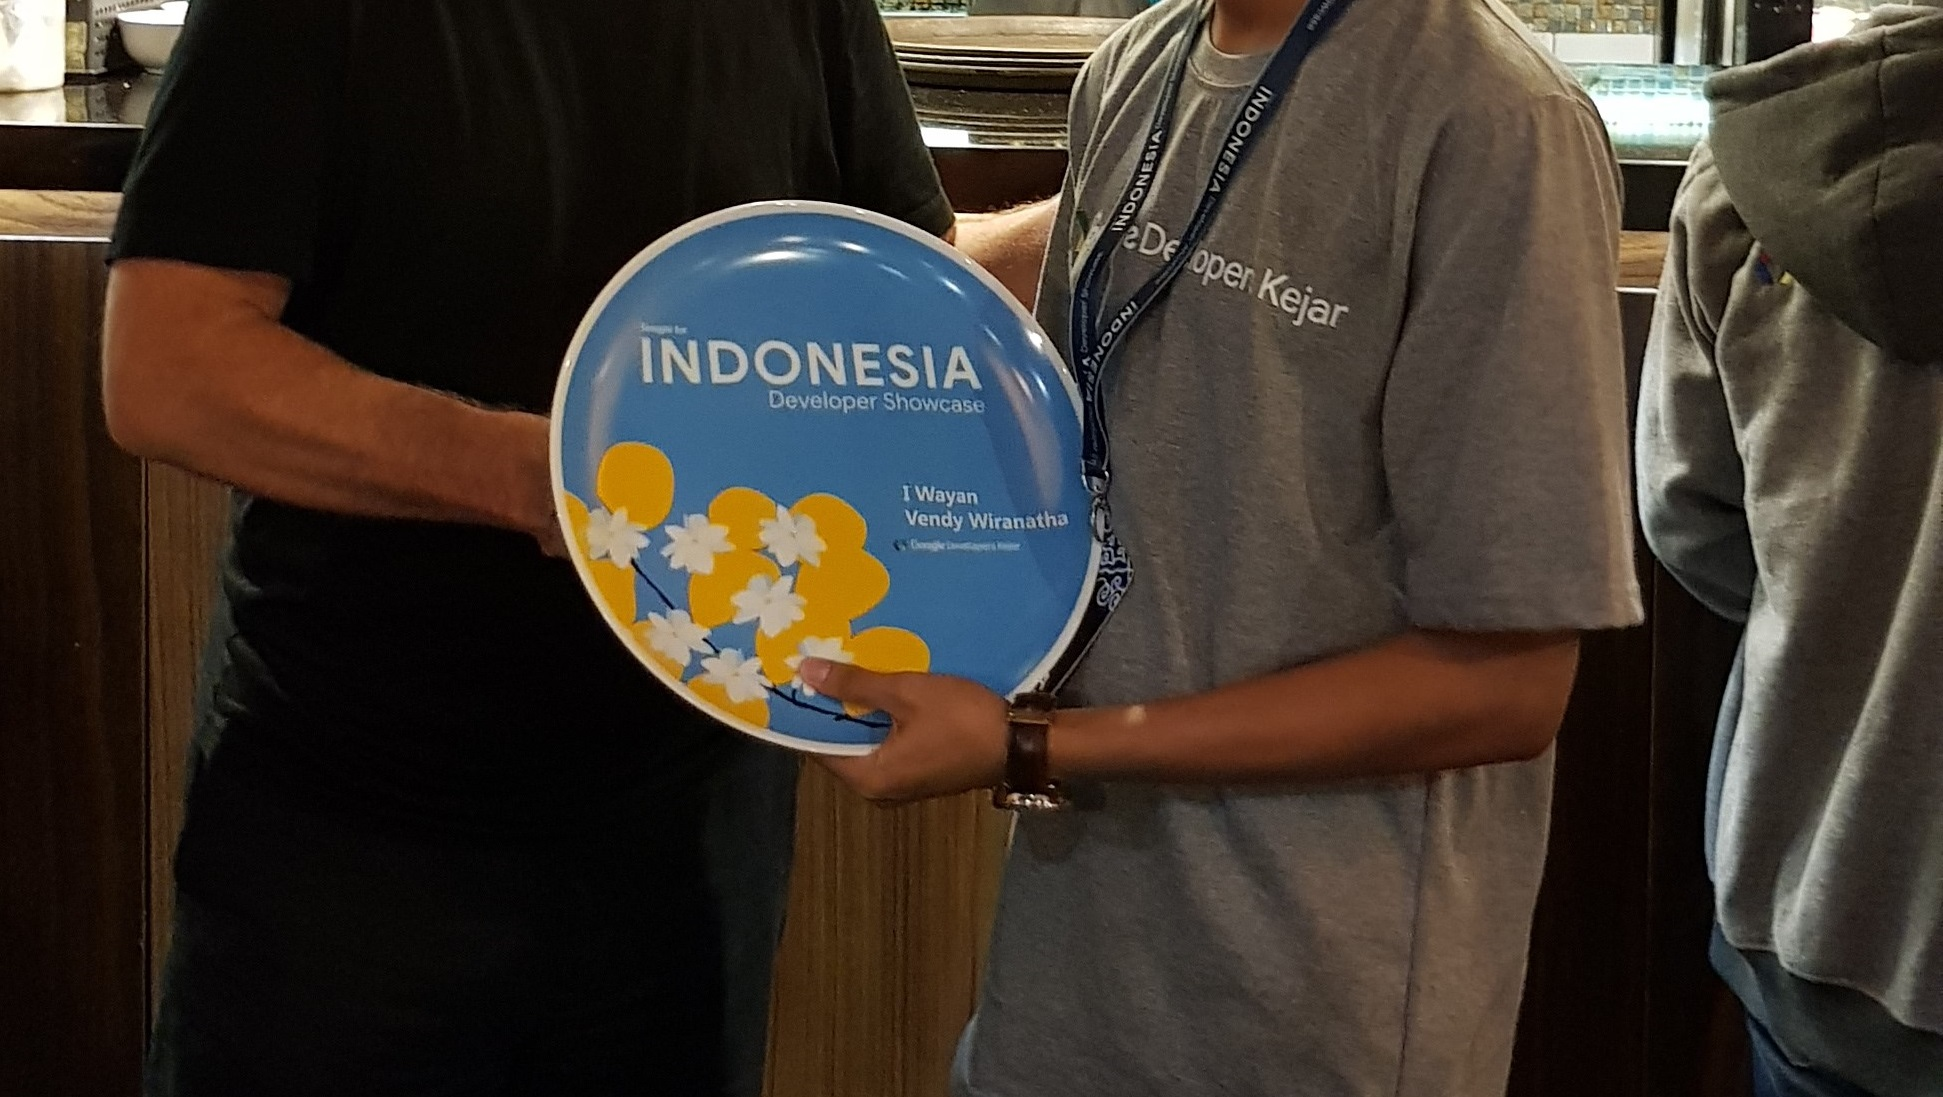
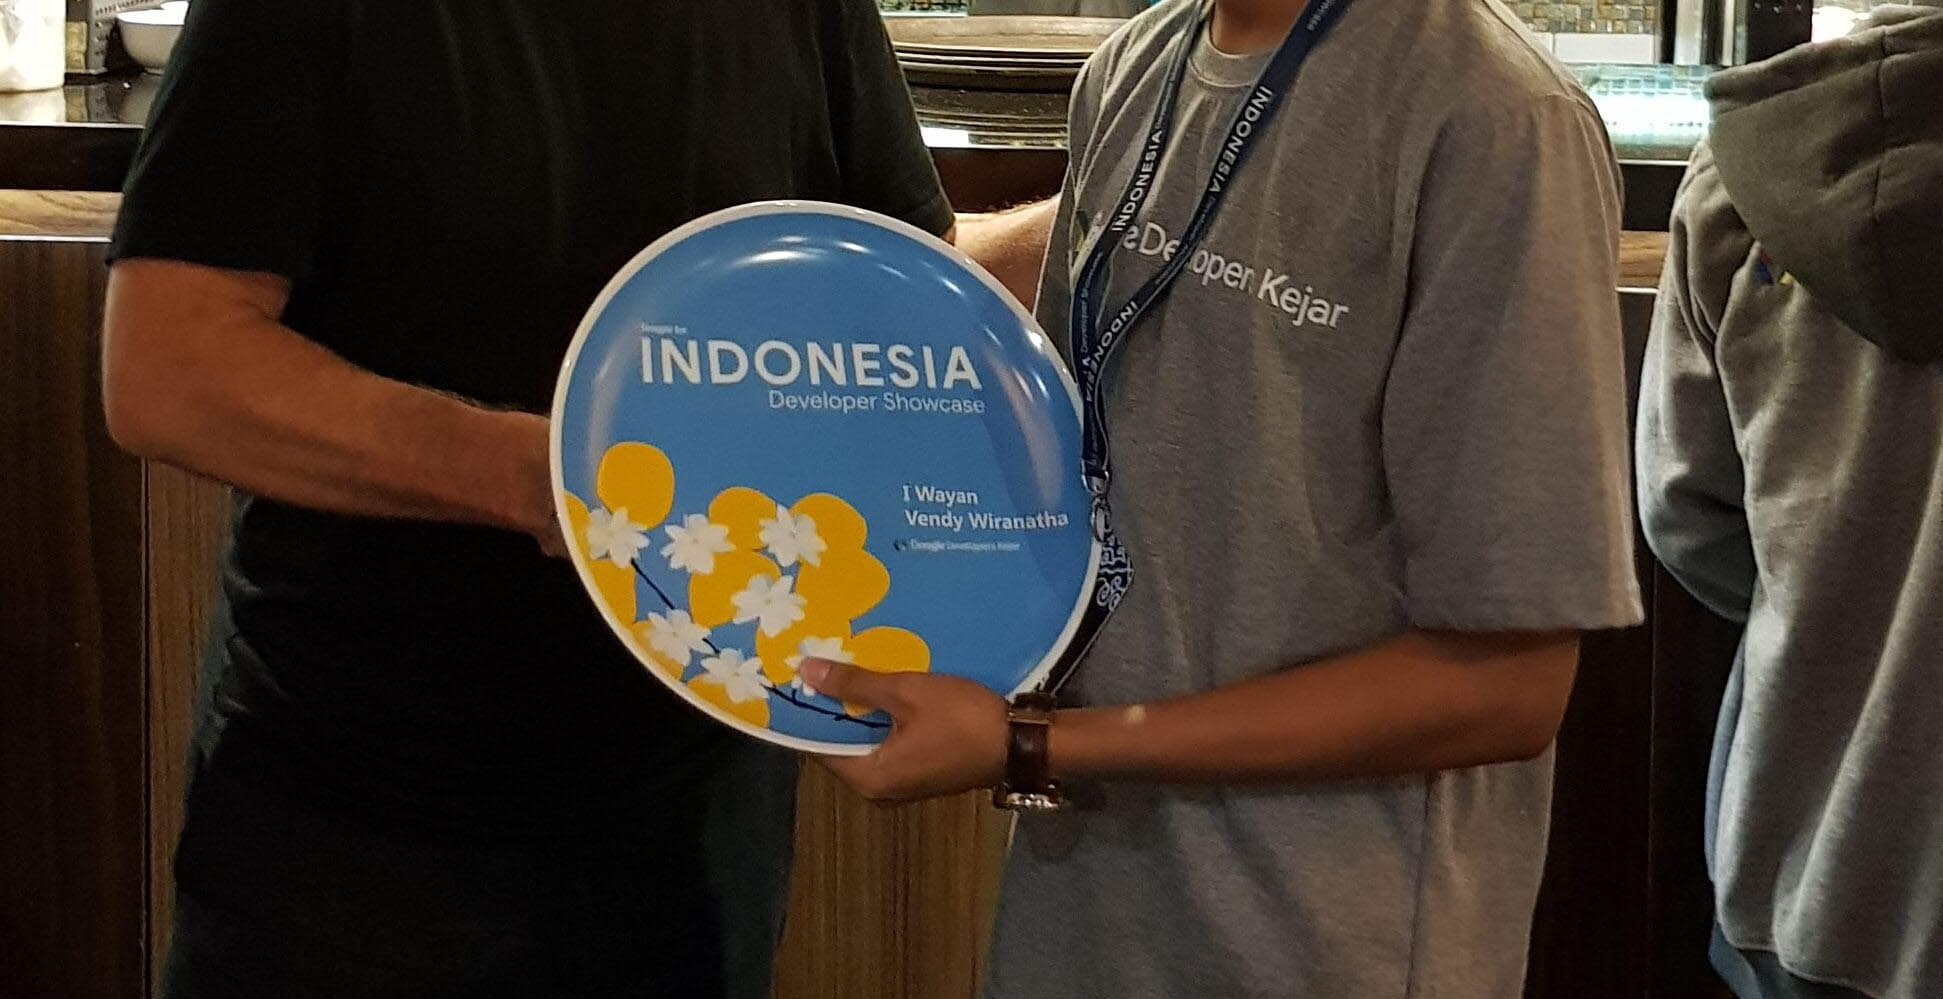
updated image to smaller for performance improvement

diff --git a/src/index.html b/src/index.html
@@ -6,7 +6,7 @@
   <meta name="viewport" content="width=device-width, initial-scale=1.0">
   <meta http-equiv="X-UA-Compatible" content="ie=edge">
   <title>Final Project DevC Jakarta</title>
-
+  <link rel="shortcut icon" type="image/png" href="./assets/images/favicon.png" />
   <link rel='stylesheet' type='text/css'
     href='https://fonts.googleapis.com/css?family=Open+Sans:300italic,400italic,600italic,700italic,800italic,400,300,600,700,800'>
   <link rel="stylesheet" href="https://use.fontawesome.com/releases/v5.7.2/css/all.css"
@@ -20,7 +20,7 @@
     <div class="container">
       <h1 class="logo">
         <a class="scrollto" href="#hero">
-          <span class="logo-icon-wrapper"><img class="logo-icon" src="assets/images/logo-icon.svg" alt="icon"></span>
+          <span class="logo-icon-wrapper"><img class="logo-icon" src="assets/images/devc.png" alt="icon"></span>
           <span class="text"><span class="highlight">DevC</span>Jakarta</span></a>
       </h1>
       <nav class="main-nav navbar-expand-md float-right navbar-inverse" role="navigation">
@@ -73,7 +73,7 @@
         <div class="carousel-item item-1 active">
           <div class="item-content container">
             <div class="item-content-inner">
-              <h2 class="heading">Google Developer<br class="d-none d-md-block">for
+              <h2 class="heading">Google Developer<br class="d-none d-md-block">
                 Showcase 2018</h2>
             </div>
           </div>
@@ -111,55 +111,42 @@
             <div class="figure-holder">
               <img class="figure-image" src="assets/images/figure-1.png" alt="image">
             </div>
-            <!--//figure-holder-->
             <h3 class="item-title">Read Books</h3>
             <div class="item-desc">
               If we want to learn programming, we should be read some book for update information.
-              because technology quickly updated. but learn fundamental is important before we updated modern tech.
+              because technology quickly updated. but understand about fundamental programming is crucial, before learn
+              the next steps.
             </div>
-            <!--//item-desc-->
           </div>
-          <!--//item-inner-->
         </div>
-        <!--//item-->
         <div class="item col-md-4 col-12">
           <div class="item-inner">
             <div class="figure-holder">
               <img class="figure-image" src="assets/images/figure-2.png" alt="image">
             </div>
-            <!--//figure-holder-->
             <h3 class="item-title">Practice Code</h3>
             <div class="item-desc">
-              We have updated and learn technology by read book, but learn without practice it's useless.
-              When we learn something, we also should be practice for remembering and more understanding.
+              We have updated technology by read book, but learn without practice it's useless.
+              When learn something, we also should be take a practice for more understanding and keep in mind.
             </div>
-            <!--//item-desc-->
           </div>
-          <!--//item-inner-->
         </div>
-        <!--//item-->
         <div class="item col-md-4 col-12">
           <div class="item-inner">
             <div class="figure-holder">
               <img class="figure-image" src="assets/images/figure-3.png" alt="image">
             </div>
-            <!--//figure-holder-->
             <h3 class="item-title">Implement Best Practice</h3>
             <div class="item-desc">
-              The latest step is implement best practice on code. implement SOLID principle is important when coding.
-              Learn design pattern is mandatory for software engineer.
+              The latest step is implement best practice on your code. Learn design pattern and SOLID principle are
+              mandatory for software engineer. implement best practice will help you to improve your code still clean
+              and even can be increase performance of your system.
             </div>
-            <!--//item-desc-->
           </div>
-          <!--//item-inner-->
         </div>
-        <!--//item-->
       </div>
-      <!--//items-wrapper-->
     </div>
-    <!--//container-->
   </div>
-  <!--//about-section-->
 
   <div id="exercise" class="features-section">
     <div class="container text-center">
@@ -230,9 +217,10 @@
         </div>
         <div class="quote-holder">
           <blockquote class="quote">
-            <p>I think program like this, should be continue. Because many positive value I can get here.
-              Thank DevC, Facebook and Hactiv8 for this lesson. My hope with I join this class, I can learn depth
-              javascript easier</p>
+            <p>
+              I think this program, should be continue. Because many positive value I can get here. Thank DevC,
+              Facebook and Hactiv8 for these lessons. I hope with join this class, I can learn depth javascript easier.
+            </p>
             <div class="quote-source">
               <a href="https://id.linkedin.com/in/vendywira" style="text-decoration: none; color: black"
                 target="_blank">
@@ -240,12 +228,9 @@
                 <span class="meta">Jakarta</span>
               </a>
             </div>
-            <!--//quote-source-->
           </blockquote>
         </div>
-        <!--//quote-holder-->
       </div>
-      <!--//item-->
       <div class="item item-reversed mx-auto">
         <div class="profile-holder">
           <img class="profile-image" src="assets/images/profile-2.png" alt="profile">
@@ -259,12 +244,9 @@
               <span class="name">@LisaWhite,</span>
               <span class="meta">London</span>
             </div>
-            <!--//quote-source-->
           </blockquote>
         </div>
-        <!--//quote-holder-->
       </div>
-      <!--//item-->
       <div class="item mx-auto">
         <div class="profile-holder">
           <img class="profile-image" src="assets/images/profile-3.png" alt="profile">
@@ -278,12 +260,9 @@
               <span class="name">@MattH,</span>
               <span class="meta">Berlin</span>
             </div>
-            <!--//quote-source-->
           </blockquote>
         </div>
-        <!--//quote-holder-->
       </div>
-      <!--//item-->
       <div class="item item-reversed mx-auto">
         <div class="profile-holder">
           <img class="profile-image" src="assets/images/profile-4.png" alt="profile">
@@ -297,31 +276,23 @@
               <span class="name">@RyanW,</span>
               <span class="meta">Paris</span>
             </div>
-            <!--//quote-source-->
           </blockquote>
-
         </div>
-        <!--//quote-holder-->
       </div>
-      <!--//item-->
     </div>
-    <!--//container-->
   </div>
-  <!--//testimonials-->
 
   <section id="contact" class="contact-section">
     <div class="container">
       <div class="well well-sm">
         <h3><strong>Contact Us</strong></h3>
       </div>
-
       <div class="row">
         <div class="col-md-7">
           <iframe
             src="https://www.google.com/maps/embed?pb=!1m18!1m12!1m3!1d3966.5010534404005!2d106.81352241413742!3d-6.197429962438086!2m3!1f0!2f0!3f0!3m2!1i1024!2i768!4f13.1!3m3!1m2!1s0x2e69f6a02679cc29%3A0x6851b34c1fa601f5!2sBlibli.com+Office+-+Thamrin!5e0!3m2!1sen!2sid!4v1554816433815!5m2!1sen!2sid"
             width="100%" height="315" frameborder="0" style="border:0" allowfullscreen></iframe>
         </div>
-
         <div class="col-md-5">
           <h4><strong>Get in Touch</strong></h4>
           <form action="https://formspree.io/vendywira@mailinator.com" method="POST">
@@ -351,10 +322,8 @@
       <small class="copyright">Created by <a href="https://id.linkedin.com/in/vendywira/" target="_blank">I Wayan Vendy
           Wiranatha</a> for final project DevC Jakarta</small>
     </div>
-    <!--//container-->
   </footer>
 
-  <!-- Javascript -->
   <script type="text/javascript" src="./assets/js/jquery-3.3.1.min.js"></script>
   <script type="text/javascript" src="./assets/js/bootstrap.min.js"></script>
   <script type="text/javascript" src="./assets/js/jquery.scrollTo.min.js"></script>

diff --git a/src/assets/css/styles.css b/src/assets/css/styles.css
@@ -181,8 +181,8 @@ a.btn-cta {
 }
 
 .header.header-scrolled .logo .logo-icon {
-  width: 20px;
-  height: 20px;
+  width: 30px;
+  height: 30px;
   margin-right: 0;
 }
 
